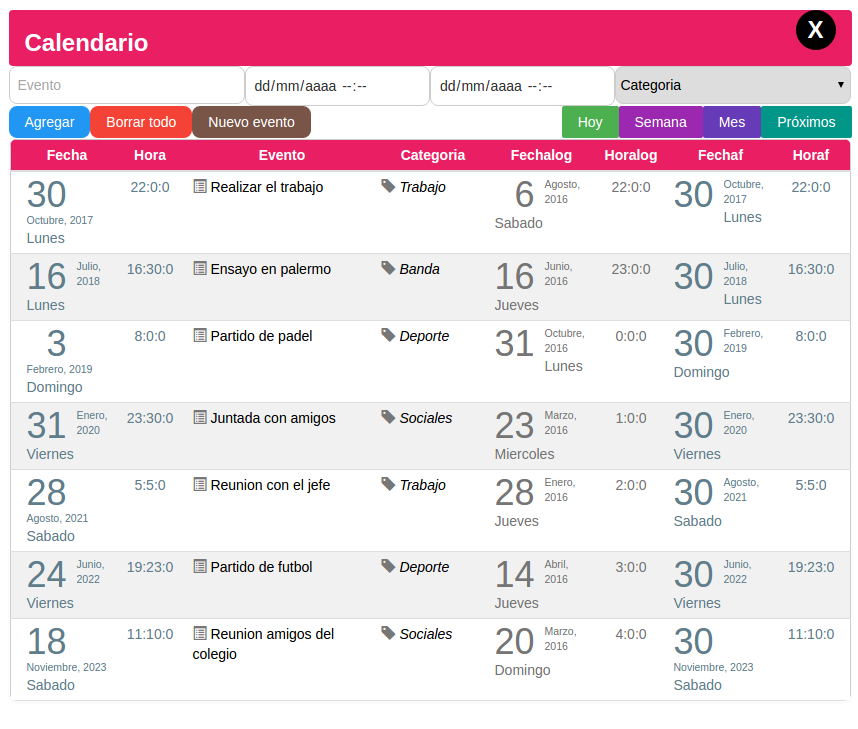
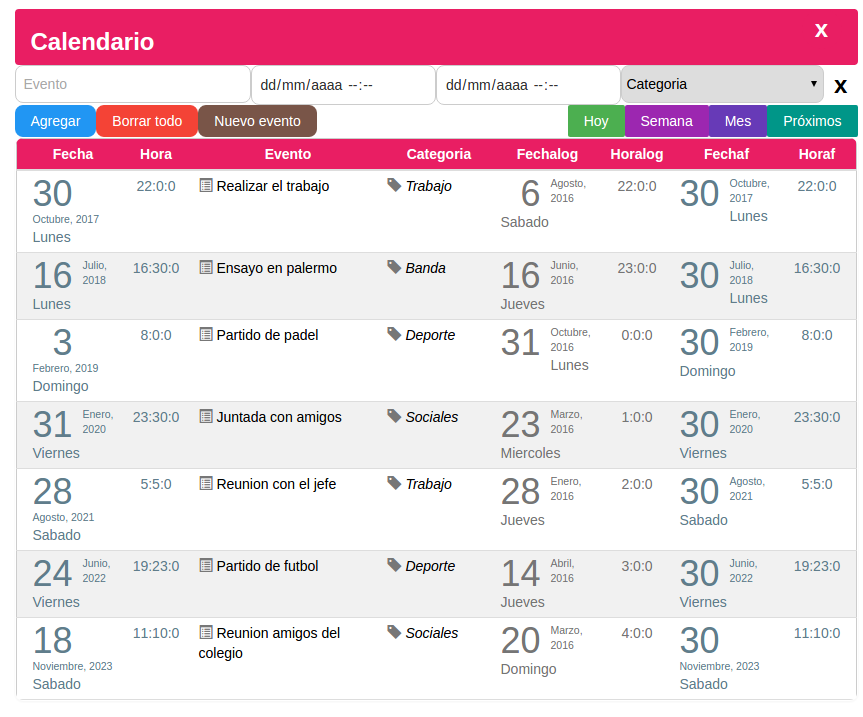
se muestran y se ocultan divs de inputs

diff --git a/todo.html b/todo.html
@@ -19,10 +19,11 @@
     <div class="wrapper">
         <div class="border w3-margin-right">
             <div class="w3-container w3-pink w3-margin-right w3-round" id="cabecera">
-                <span class="w3-closebtn w3-btn-floating" onclick="this.parentElement.style.display='none'">X</span>
+                <span class="w3-closebtn w3-btn-floating w3-pink" onclick="this.parentElement.style.display='none'">x</span>
                 <h3><b>Calendario</b></h3>
             </div>
             <div class="w3-margin-right w3-row " id="nuevacarga" style="display:none;">
+              <span class="w3-closebtn w3-btn-floating w3-white" style="width:4%" onclick="this.parentElement.style.display='none'">x</span>
                 <div class="w3-col" style="width:28%">
                     <th>
                         <input class="w3-input w3-border w3-round-large" type="text" id="inputevento" placeholder="Evento">
@@ -38,7 +39,7 @@
                         <input class="w3-input w3-border w3-round-large" style="width:100%" type="datetime-local" id="fechafinal" placeholder="">
                     </th>
                 </div>
-                <div class="w3-col" style="width:28%">
+                <div class="w3-col" style="width:24%">
                     <th>
                         <select class="w3-select w3-border w3-round-large" style="width:100%" id="inputeventocategoria" name="opciones">
                   <option value="" disabled selected>Categoria</option>
